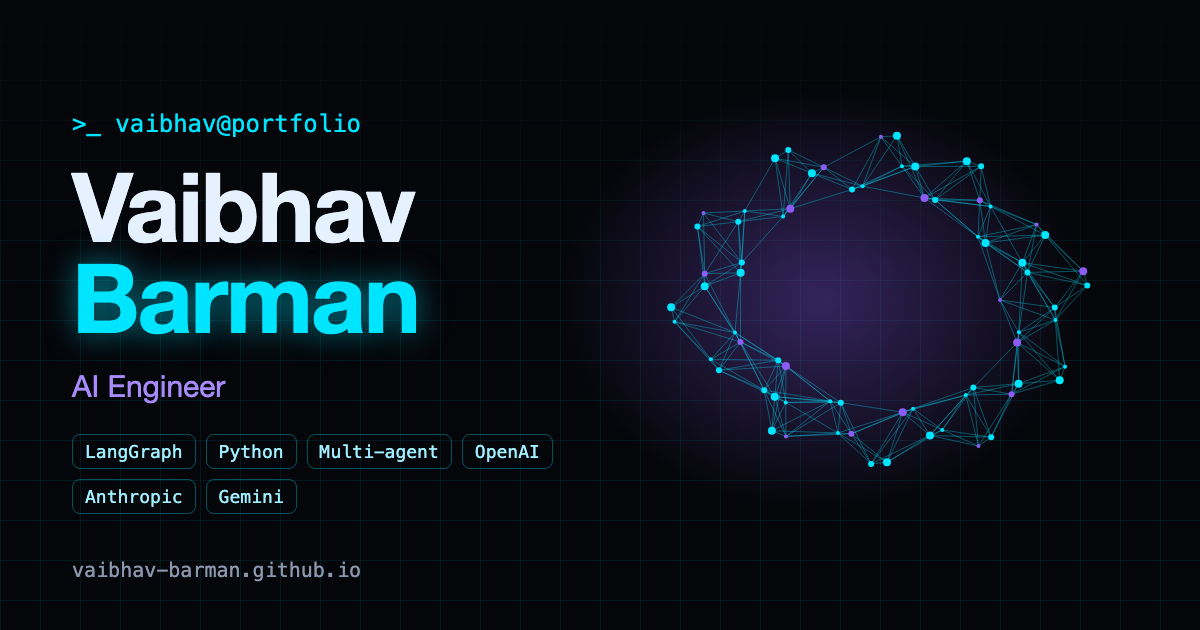
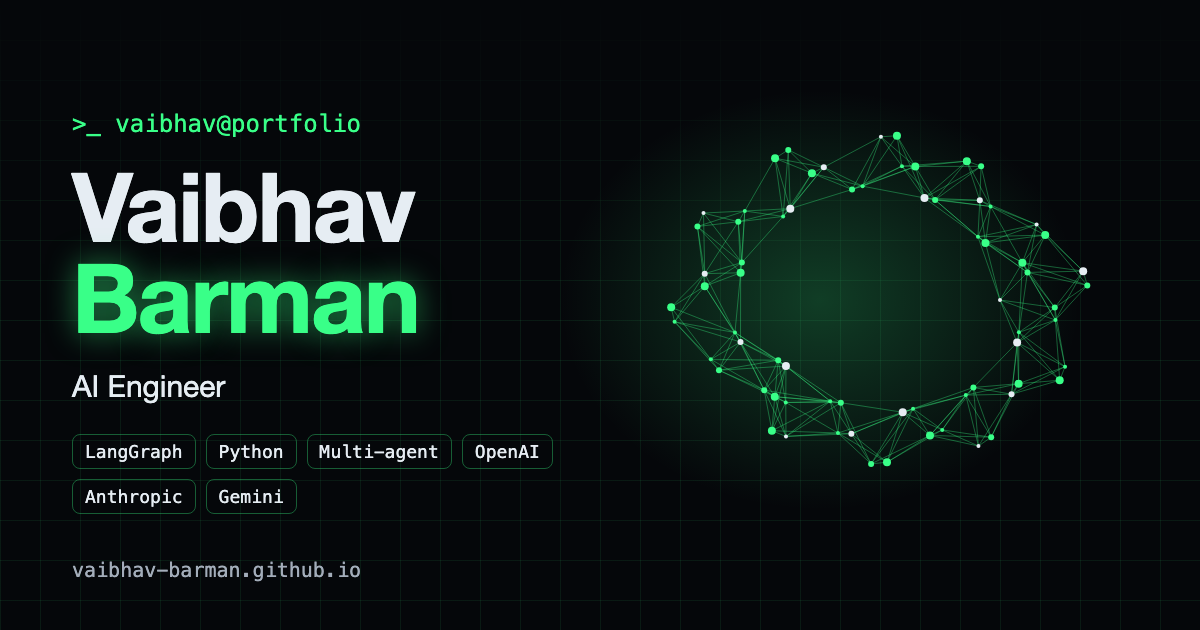
fix(a11y,perf,seo): Lighthouse 100s, faster 3D start-up, themed OG image
Lighthouse (production build, local) went from mobile 87/97/100/100 and
desktop 72/100/100/100 to 100/100/100/100 on both.

- Scene start-up is split across frames, with shaders compiled through
  compileAsync, so the longest task when the scene starts dropped from
  ~950ms to ~56ms.
- The WebGL probe and the scene now wait for the first mouse move, scroll,
  touch or key, or start by themselves 5s after load. Lighthouse doesn't
  interact, so its scores measure the page without the 3D running.
- The stylesheet is inlined into the HTML at build time, removing the
  render-blocking request.
- The brand link's accessible name now contains its visible text, and the
  terminal input is a 28px tap target.
- Add a contrast test: text, muted, error and both accent presets must be
  >= 4.5:1 on the background and on panels, including dark text on accent
  buttons.
- The OG image script reads colours from theme.js; image regenerated in
  green.
- The resume page loads the same web fonts.

diff --git a/src/ui/scene-loader.js b/src/ui/scene-loader.js
@@ -1,17 +1,19 @@
 /**
  * Decides whether and how to run the 3D scene, and loads it lazily so
- * three.js never delays the first paint.
+ * three.js never competes with the first paint or the first interaction.
  *
  *  - No WebGL2, or a software renderer      → static CSS background (.bg)
- *  - prefers-reduced-motion                 → static background (opt in with `3d on`)
- *  - Phones / touch                         → lighter scene, no bloom, loaded on first touch or scroll
- *  - Desktop                                → full scene, loaded when the browser is idle
+ *  - prefers-reduced-motion                 → static background (opt in with `3d on` or the footer toggle)
+ *  - Phones / touch                         → lighter scene, no bloom, starts on the first touch or scroll
+ *  - Desktop                                → full scene, starts on the first mouse move / scroll / key,
+ *                                             or by itself a few seconds after load
  *
  * Debug: add ?scene=lite to force the phone version, ?scene=off to disable it.
  */
 import { bus, state } from './bus.js'
 
 const PREF_KEY = 'portfolio-3d'
+const AUTO_START_MS = 5000
 
 function readPref() {
   try {
@@ -28,59 +30,80 @@ function writePref(v) {
   }
 }
 
-function probeWebGL() {
+let probed
+function webglUsable() {
+  if (probed !== undefined) return probed
   try {
     const c = document.createElement('canvas')
     const gl = c.getContext('webgl2', { failIfMajorPerformanceCaveat: true })
-    if (!gl) return false
+    if (!gl) return (probed = false)
     const info = gl.getExtension('WEBGL_debug_renderer_info')
     const renderer = info ? String(gl.getParameter(info.UNMASKED_RENDERER_WEBGL)) : ''
     gl.getExtension('WEBGL_lose_context')?.loseContext()
     // Software rendering would be slower than no 3D at all.
-    return !/swiftshader|llvmpipe|software/i.test(renderer)
+    probed = !/swiftshader|llvmpipe|software/i.test(renderer)
   } catch {
-    return false
+    probed = false
   }
+  return probed
+}
+
+/** Runs `fn` once, on the first sign of a real visitor (or after `timeout` ms). */
+function onFirstInteraction(fn, timeout) {
+  const events = ['pointermove', 'pointerdown', 'touchstart', 'scroll', 'keydown', 'wheel']
+  let timer
+  const go = () => {
+    events.forEach((e) => removeEventListener(e, go))
+    clearTimeout(timer)
+    fn()
+  }
+  events.forEach((e) => addEventListener(e, go, { passive: true, once: true }))
+  if (timeout) timer = setTimeout(go, timeout)
 }
 
 export function initScene() {
   const params = new URLSearchParams(location.search)
   const mode = params.get('scene')
   const mobile = mode === 'lite' || matchMedia('(pointer: coarse)').matches || innerWidth < 768
-  const available = mode !== 'off' && probeWebGL()
-  state.threeD = { enabled: false, available }
   const toggle = document.getElementById('toggle-3d')
-  if (!available) return
+  // Assume available until probed (the probe itself is deferred: creating a GL context isn't free).
+  state.threeD = { enabled: false, available: mode !== 'off' }
+  if (mode === 'off') return
 
-  // Reduced motion → off unless the visitor explicitly turned it on.
   const pref = readPref()
   const wanted = pref ? pref === 'on' : !state.reducedMotion
 
   let scene = null
   let loading = null
   const sync = () => {
-    document.documentElement.classList.toggle('has-3d', state.threeD.enabled)
-    if (toggle) {
+    const on = state.threeD.enabled && Boolean(scene)
+    document.documentElement.classList.toggle('has-3d', on)
+    if (toggle && state.threeD.available && probed !== undefined) {
       toggle.hidden = false
       toggle.textContent = `3D: ${state.threeD.enabled ? 'on' : 'off'}`
       toggle.setAttribute('aria-pressed', String(state.threeD.enabled))
     }
   }
+  const unavailable = (err) => {
+    if (err) console.warn('3D scene failed to start; using the static background.', err)
+    state.threeD = { enabled: false, available: false }
+    if (toggle) toggle.hidden = true
+    document.documentElement.classList.remove('has-3d')
+  }
   const load = () => {
+    if (!webglUsable()) return Promise.resolve(unavailable())
     loading ??= import('../scene/index.js')
-      .then(({ startScene }) => {
-        scene = startScene({ mobile })
+      .then(({ startScene }) => startScene({ mobile }))
+      .then((s) => {
+        scene = s
         scene.setEnabled(state.threeD.enabled)
-      })
-      .catch((err) => {
-        console.warn('3D scene failed to start; using the static background.', err)
-        state.threeD = { enabled: false, available: false }
         sync()
-        if (toggle) toggle.hidden = true
       })
+      .catch(unavailable)
     return loading
   }
   const set = (on, remember = true) => {
+    if (!state.threeD.available) return
     state.threeD.enabled = on
     if (remember) writePref(on ? 'on' : 'off')
     if (on) load()
@@ -96,25 +119,12 @@ export function initScene() {
   })
 
   state.threeD.enabled = wanted
-  sync()
-  if (!wanted) return
-  document.documentElement.classList.remove('has-3d') // fade in when the canvas is ready
-
-  const start = () => {
-    load().then(() => scene && document.documentElement.classList.add('has-3d'))
-  }
-  if (mobile) {
-    // Phones: wait for the first interaction so the page is usable first.
-    const events = ['pointerdown', 'touchstart', 'scroll', 'keydown']
-    const go = () => {
-      events.forEach((e) => removeEventListener(e, go))
-      start()
-    }
-    events.forEach((e) => addEventListener(e, go, { passive: true, once: true }))
-  } else {
-    const idle = window.requestIdleCallback ?? ((fn) => setTimeout(fn, 300))
-    const kick = () => idle(start, { timeout: 2500 })
-    if (document.readyState === 'complete') kick()
-    else addEventListener('load', kick, { once: true })
-  }
+  onFirstInteraction(
+    () => {
+      if (!webglUsable()) return unavailable()
+      if (wanted) load()
+      sync()
+    },
+    mobile || !wanted ? 0 : AUTO_START_MS,
+  )
 }

diff --git a/src/scene/index.js b/src/scene/index.js
@@ -2,7 +2,11 @@
  * The three.js scene behind the page. Loaded lazily by src/main.js only when
  * WebGL works and the visitor hasn't asked for reduced motion.
  *
- *   startScene({ mobile }) -> { setEnabled(on), dispose() }
+ *   await startScene({ mobile }) -> { setEnabled(on), dispose() }
+ *
+ * Start-up is split across several frames, and shaders compile
+ * asynchronously where the browser supports it, so loading the scene never
+ * freezes the page for long.
  */
 import { Color, PerspectiveCamera, Scene, Vector2, Vector3, WebGLRenderer } from 'three'
 import { EffectComposer } from 'three/examples/jsm/postprocessing/EffectComposer.js'
@@ -20,7 +24,10 @@ import { createSkillCluster } from './skills.js'
 import { placeInStage } from './stage.js'
 import { damp } from './util.js'
 
-export function startScene({ mobile = false } = {}) {
+// Let the browser paint/handle input between start-up steps.
+const yieldToBrowser = () => new Promise((resolve) => requestAnimationFrame(() => setTimeout(resolve, 0)))
+
+export async function startScene({ mobile = false } = {}) {
   const cfg = config.scene
   const accent = state.accent ?? theme.accent
 
@@ -55,6 +62,7 @@ export function startScene({ mobile = false } = {}) {
   scene.add(field.group)
   const grid = createGrid({ accent })
   scene.add(grid.mesh)
+  await yieldToBrowser()
 
   // Objects that live inside the page's framed .stage windows.
   const cards = createProjectCards({ projects: portfolio.projects, accent })
@@ -68,6 +76,12 @@ export function startScene({ mobile = false } = {}) {
   ].filter((x) => x.el)
   // Card faces are drawn with the web fonts, so redraw once they're loaded.
   document.fonts?.ready.then(() => cards.setAccent(state.accent ?? theme.accent))
+  await yieldToBrowser()
+  if (renderer.compileAsync) {
+    await renderer.compileAsync(scene, camera)
+    await renderer.compileAsync(overlay, camera)
+  }
+  await yieldToBrowser()
 
   // Bloom on desktop only; phones render straight to the screen.
   let composer = null

diff --git a/tests/theme.test.js b/tests/theme.test.js
@@ -1,0 +1,36 @@
+import { describe, expect, it } from 'vitest'
+import { theme } from '../src/theme.js'
+
+// WCAG 2.x relative luminance / contrast ratio
+const lum = (hex) => {
+  const [r, g, b] = hex
+    .replace('#', '')
+    .match(/../g)
+    .map((x) => parseInt(x, 16) / 255)
+    .map((c) => (c <= 0.03928 ? c / 12.92 : ((c + 0.055) / 1.055) ** 2.4))
+  return 0.2126 * r + 0.7152 * g + 0.0722 * b
+}
+const contrast = (a, b) => {
+  const [x, y] = [lum(a), lum(b)].sort((m, n) => n - m)
+  return (x + 0.05) / (y + 0.05)
+}
+
+describe('theme', () => {
+  it('uses a single accent colour', () => {
+    expect(theme.accent).toMatch(/^#[0-9a-f]{6}$/i)
+    expect(theme.presets.blue).toBe('#3b82f6')
+  })
+
+  it('keeps every text colour at WCAG AA (4.5:1) or better', () => {
+    for (const bg of [theme.background, theme.surface]) {
+      expect(contrast(theme.text, bg)).toBeGreaterThanOrEqual(4.5)
+      expect(contrast(theme.muted, bg)).toBeGreaterThanOrEqual(4.5)
+      expect(contrast(theme.error, bg)).toBeGreaterThanOrEqual(4.5)
+      for (const accent of [theme.accent, ...Object.values(theme.presets)]) {
+        expect(contrast(accent, bg), `${accent} on ${bg}`).toBeGreaterThanOrEqual(4.5)
+        // dark text on accent buttons
+        expect(contrast(theme.background, accent)).toBeGreaterThanOrEqual(4.5)
+      }
+    }
+  })
+})

diff --git a/vite.config.js b/vite.config.js
@@ -41,11 +41,32 @@ function portfolioHtml() {
   }
 }
 
+/**
+ * Inlines the (small) site stylesheet into the HTML in production builds,
+ * removing a render-blocking request before first paint.
+ */
+function inlineCss() {
+  return {
+    name: 'inline-css',
+    apply: 'build',
+    transformIndexHtml: {
+      order: 'post',
+      handler(html, ctx) {
+        if (!ctx.bundle) return html
+        return html.replace(/<link rel="stylesheet"[^>]*href="\/(assets\/[^"]+\.css)"[^>]*>/g, (tag, file) => {
+          const asset = ctx.bundle[file]
+          return asset && asset.type === 'asset' ? `<style>${asset.source}</style>` : tag
+        })
+      },
+    },
+  }
+}
+
 // User site (vaibhav-barman.github.io) is served from the domain root, so base is "/".
 // For a project site (username.github.io/repo) set base to "/repo/".
 export default defineConfig({
   base: '/',
-  plugins: [portfolioHtml()],
+  plugins: [portfolioHtml(), inlineCss()],
   build: {
     target: 'es2022',
     chunkSizeWarningLimit: 800,

diff --git a/src/site/page.js b/src/site/page.js
@@ -25,7 +25,7 @@ export function nav(d) {
     .join('')
   return `<header class="nav" id="nav">
     <div class="nav-inner">
-      <a class="brand" href="#hero" aria-label="${esc(d.name)}, back to top"><span class="brand-mark" aria-hidden="true">&gt;_</span><span>${esc(d.handle)}<span class="accent">.</span>sh</span></a>
+      <a class="brand" href="#hero"><span class="brand-mark" aria-hidden="true">&gt;_</span><span>${esc(d.handle)}<span class="accent">.</span>sh</span><span class="sr-only">, ${esc(d.name)}, back to top</span></a>
       <nav class="nav-links" aria-label="Sections"><ul>${links}</ul></nav>
       <p class="nav-status"><span class="dot" aria-hidden="true"></span><span class="nav-status-label">status:</span> ${esc(d.status)}</p>
       <a class="btn btn-primary nav-cta" href="${esc(config.nav.cta.href)}">${esc(config.nav.cta.label)}</a>

diff --git a/resume.html b/resume.html
@@ -39,9 +39,6 @@
   </head>
   <body>
     <!--resume-->
-    <script>
-      document.getElementById('print').addEventListener('click', function () { window.print() })
-      if (new URLSearchParams(location.search).has('print')) window.addEventListener('load', function () { setTimeout(function () { window.print() }, 300) })
-    </script>
+    <script type="module" src="/src/resume.js"></script>
   </body>
 </html>

diff --git a/src/resume.js b/src/resume.js
@@ -1,0 +1,6 @@
+/** resume.html: web fonts + the "Save as PDF" button. */
+import '@fontsource-variable/space-grotesk'
+import '@fontsource-variable/jetbrains-mono'
+
+document.getElementById('print')?.addEventListener('click', () => window.print())
+if (new URLSearchParams(location.search).has('print')) addEventListener('load', () => setTimeout(() => window.print(), 300))

diff --git a/src/styles/main.css b/src/styles/main.css
@@ -629,7 +629,7 @@ html:not(.js) .term-chips {
 }
 .term-input-line {
   display: flex;
-  align-items: baseline;
+  align-items: center;
   gap: 1ch;
   min-height: 1.6em;
 }
@@ -641,6 +641,7 @@ html:not(.js) .term-chips {
 .term-input {
   flex: 1;
   min-width: 0;
+  min-height: 28px;
   padding: 0;
   border: 0;
   outline: none;
